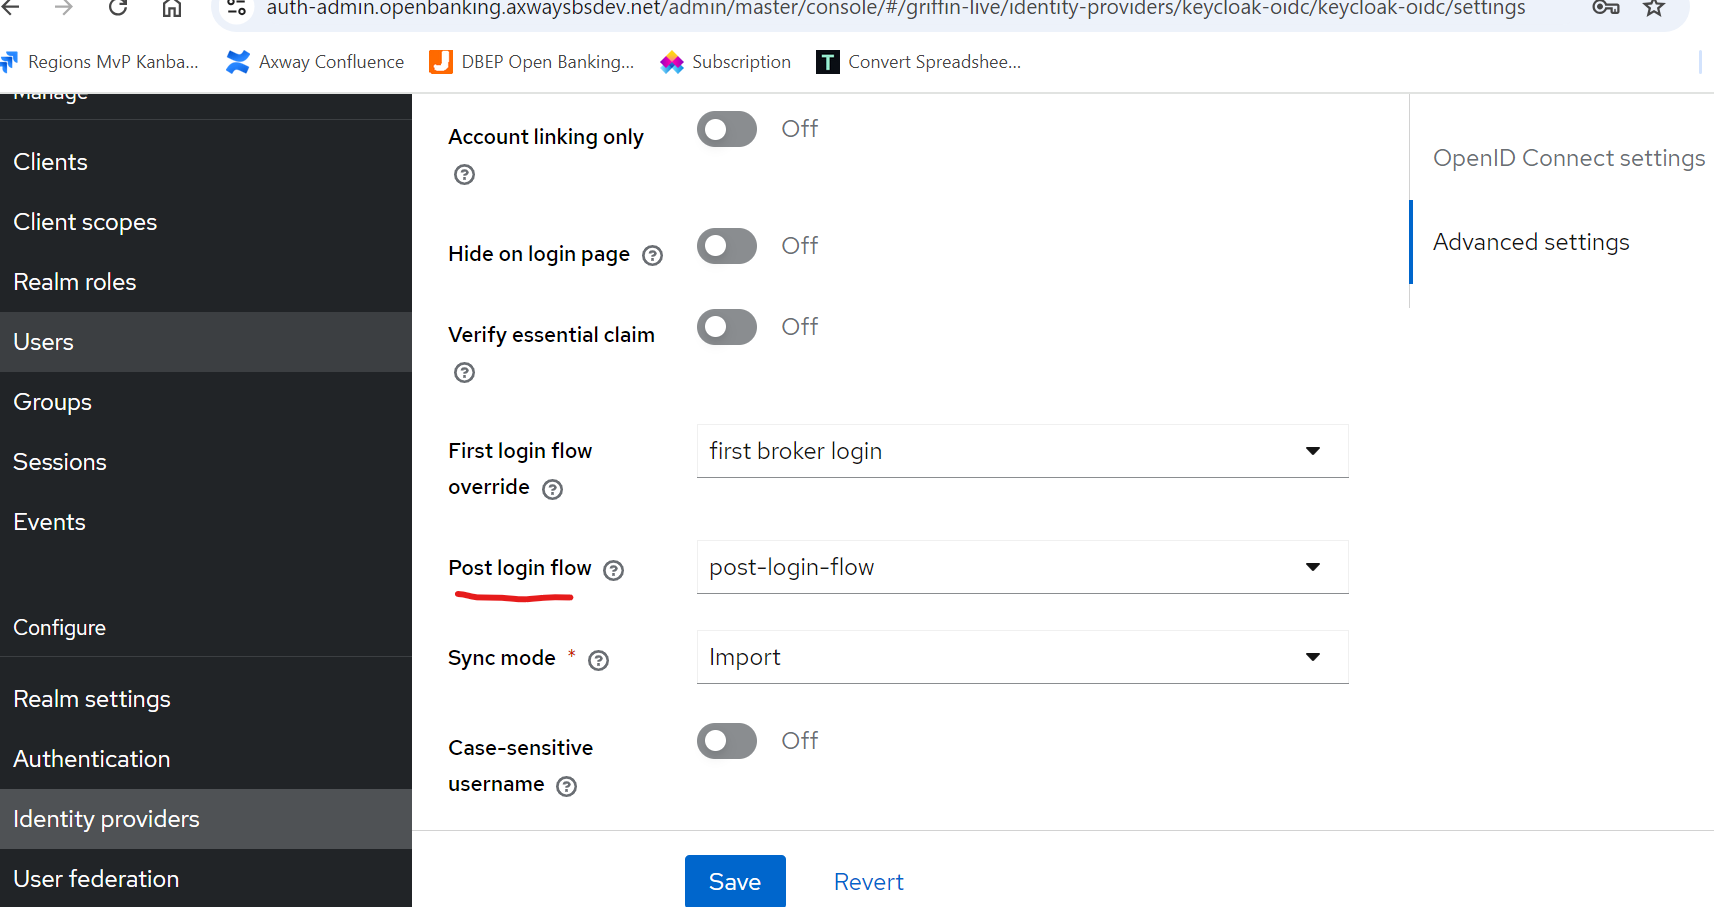
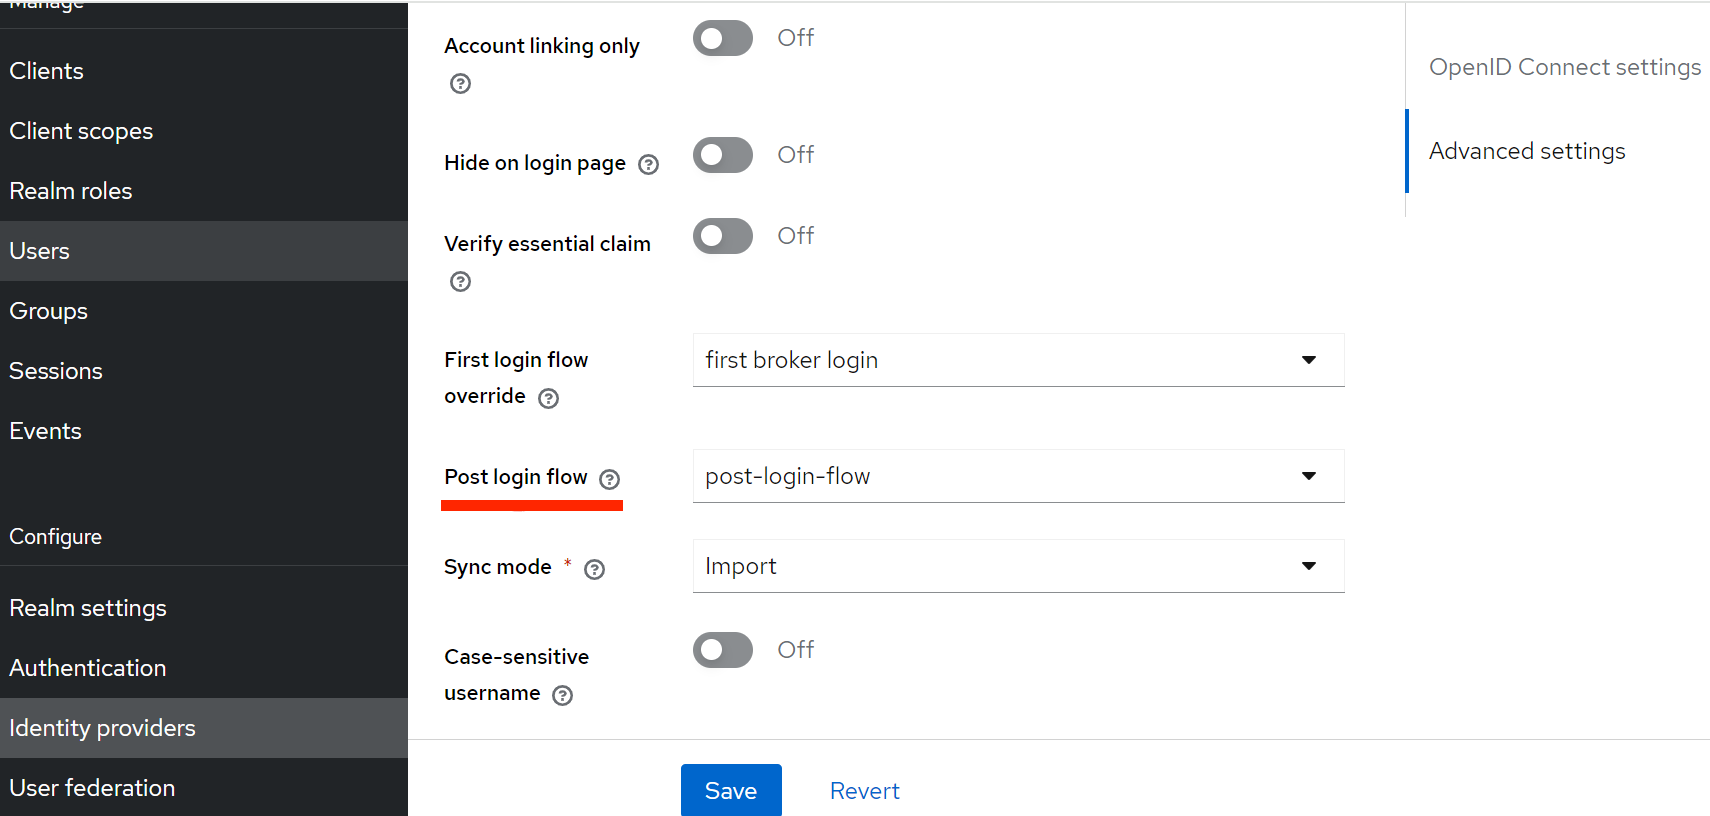
fixed alignment

diff --git a/content/en/docs/Configuration/auth-server-config.md b/content/en/docs/Configuration/auth-server-config.md
@@ -31,46 +31,39 @@ Following steps need to be followed to update the client policies -
 
 1. Click on Realm settings  on the left menu, after selecting the desired realm.
 2. Open "Client Policies" section
-
-![Client Policies](/Images/client-policies.png)
+   ![Client Policies](/Images/client-policies.png)
 
 3. Select "ob-issuer-verification"  from the policies section
 4. Now click on "ob-issuer" in the executers section 
 5. Now update the issuer url to the authorize endpoint, this endpoint should be available in tenant environment. (Shared Dataplane for Design and Check)
-  
-![OB Issuer](/Images/ob-issuer.png)
+   ![OB Issuer](/Images/ob-issuer.png)
 
 6. Policy Issuer update is completed!
 
-### Token Mapper configuration
+## Token Mapper configuration
 
 Following steps need to be followed to update the token mapper -
 1. Select the "Client scopes" after selecting the desired customer realm
-
-   ![Client Scopes](/Images/client-scopes.png)
+![Client Scopes](/Images/client-scopes.png)
 
 2. Search for "fdx-resource" mapper in the search box.
 3. Click on the mappers, now open the "Mappers" section 
-
-  ![FDX Resurce ](/Images/fdx-resource.png)
+![FDX Resurce ](/Images/fdx-resource.png)
 
 4. Open the "Openbanking Issuer Mapper", update the issuer claim with the authorize endpoint we will be using for Design and Check mode, present in the customer tenant.
-   
-   ![Issuer Mapper ](/Images/mapper.png)
+![Issuer Mapper ](/Images/mapper.png)
  
 5. Save the mapper, Token mapper Issuer update is completed.
 
-### Authentication Configuration 
+## Authentication Configuration 
 
 Authentication is the area where you can configure and manage different credential types, authentication flows, screens, and actions during log in, registration, and other Keycloak workflows.
 1. We have to create the post-login flow in addition to the buil-in flows that are already there. 
 2. Click on the Authenticators section on the left menu, after selecting the desired realm.
 3. Add **"post-login-flow"** - This specifies the actions to be needed after the authentication of the user is done successfully
+   ![Post login flow](/Images/post-login-flow.png)
 
-![Post login flow](/Images/post-login-flow.png)
-
-5. Configure the **END USER UPDATE** authenticator - When the user is successfully authenticated, Keycloak stores the id_token claims in the user session attribute. This is configured in the END USER UPDATE authenticator. Following configurations need to be set for END USER UPDATE
-
+4. Configure the **END USER UPDATE** authenticator - When the user is successfully authenticated, Keycloak stores the id_token claims in the user session attribute. This is configured in the END USER UPDATE authenticator. Following configurations need to be set for END USER UPDATE
 | Configuration                | Required | Default Value | Description                                                                                                                                    |
 | ---------------------------- | -------- |---------------|------------------------------------------------------------------------------------------------------------------------------------------------|
 | Internal Resource Update Host | true     | null          | This is the host url for resource update API, End-User Update SPI will use this host URI to update end-user information in the cosnet resource |
@@ -79,12 +72,11 @@ Authentication is the area where you can configure and manage different credenti
 | User Id claim                | true     | sub           | This is claim value in which userId is present from the IDP.                                                                                   |          
 | Openbanking Realm Name       | true     | null          | Openbanking realm name to fetch internal tokens                                                                                                |
 
-Refer to the image below -
+   Refer to the below image:
 
-![END USER UPDATE ](/Images/end-user-update.png)
+   ![END USER UPDATE ](/Images/end-user-update.png)
 
-7. Configure the **CONSENT GRANT REDIRECT** authenticator - This is configured to redirect the user to the consent grant application of the bank.
-
+5. Configure the **CONSENT GRANT REDIRECT** authenticator - This is configured to redirect the user to the consent grant application of the bank.
 | Configuration                  | Required | Default Value | Description                                                                                                                            |
 |--------------------------------| -------- |---------------|----------------------------------------------------------------------------------------------------------------------------------------|
 | Internal Resource Update Host  | true     | null          | This is host url for resource update API. The Consent Grant Redirect Update SPI will use this host uri to update account information   |
@@ -95,13 +87,13 @@ Refer to the image below -
 | Action Token Expiration Period | true     | 300           | This period will determine the maximum allowed time (in seconds) for external consent application                                      |      
 | Issuer url                     | true     | null          | This issuer url will be set in the authorization code jwt response                                                                     |
 
-Refer to the image below -
+   Refer to the image below:
 
-![CONSENT GRANT REDIRECT](/Images/consent-grant-redirect.png)
+   ![CONSENT GRANT REDIRECT](/Images/consent-grant-redirect.png)
 
-**Note** Above authenticators should be in the same sequence and the sequence cannot be changed.
+**Note:** Above authenticators should be in the same sequence and the sequence cannot be changed.
 
-### Update Identity providers Configuration 
+## Update Identity providers Configuration 
 
 The identity providers configuration created previously also needs to be updated with the Post login flow as mentioned in the image below.
 
